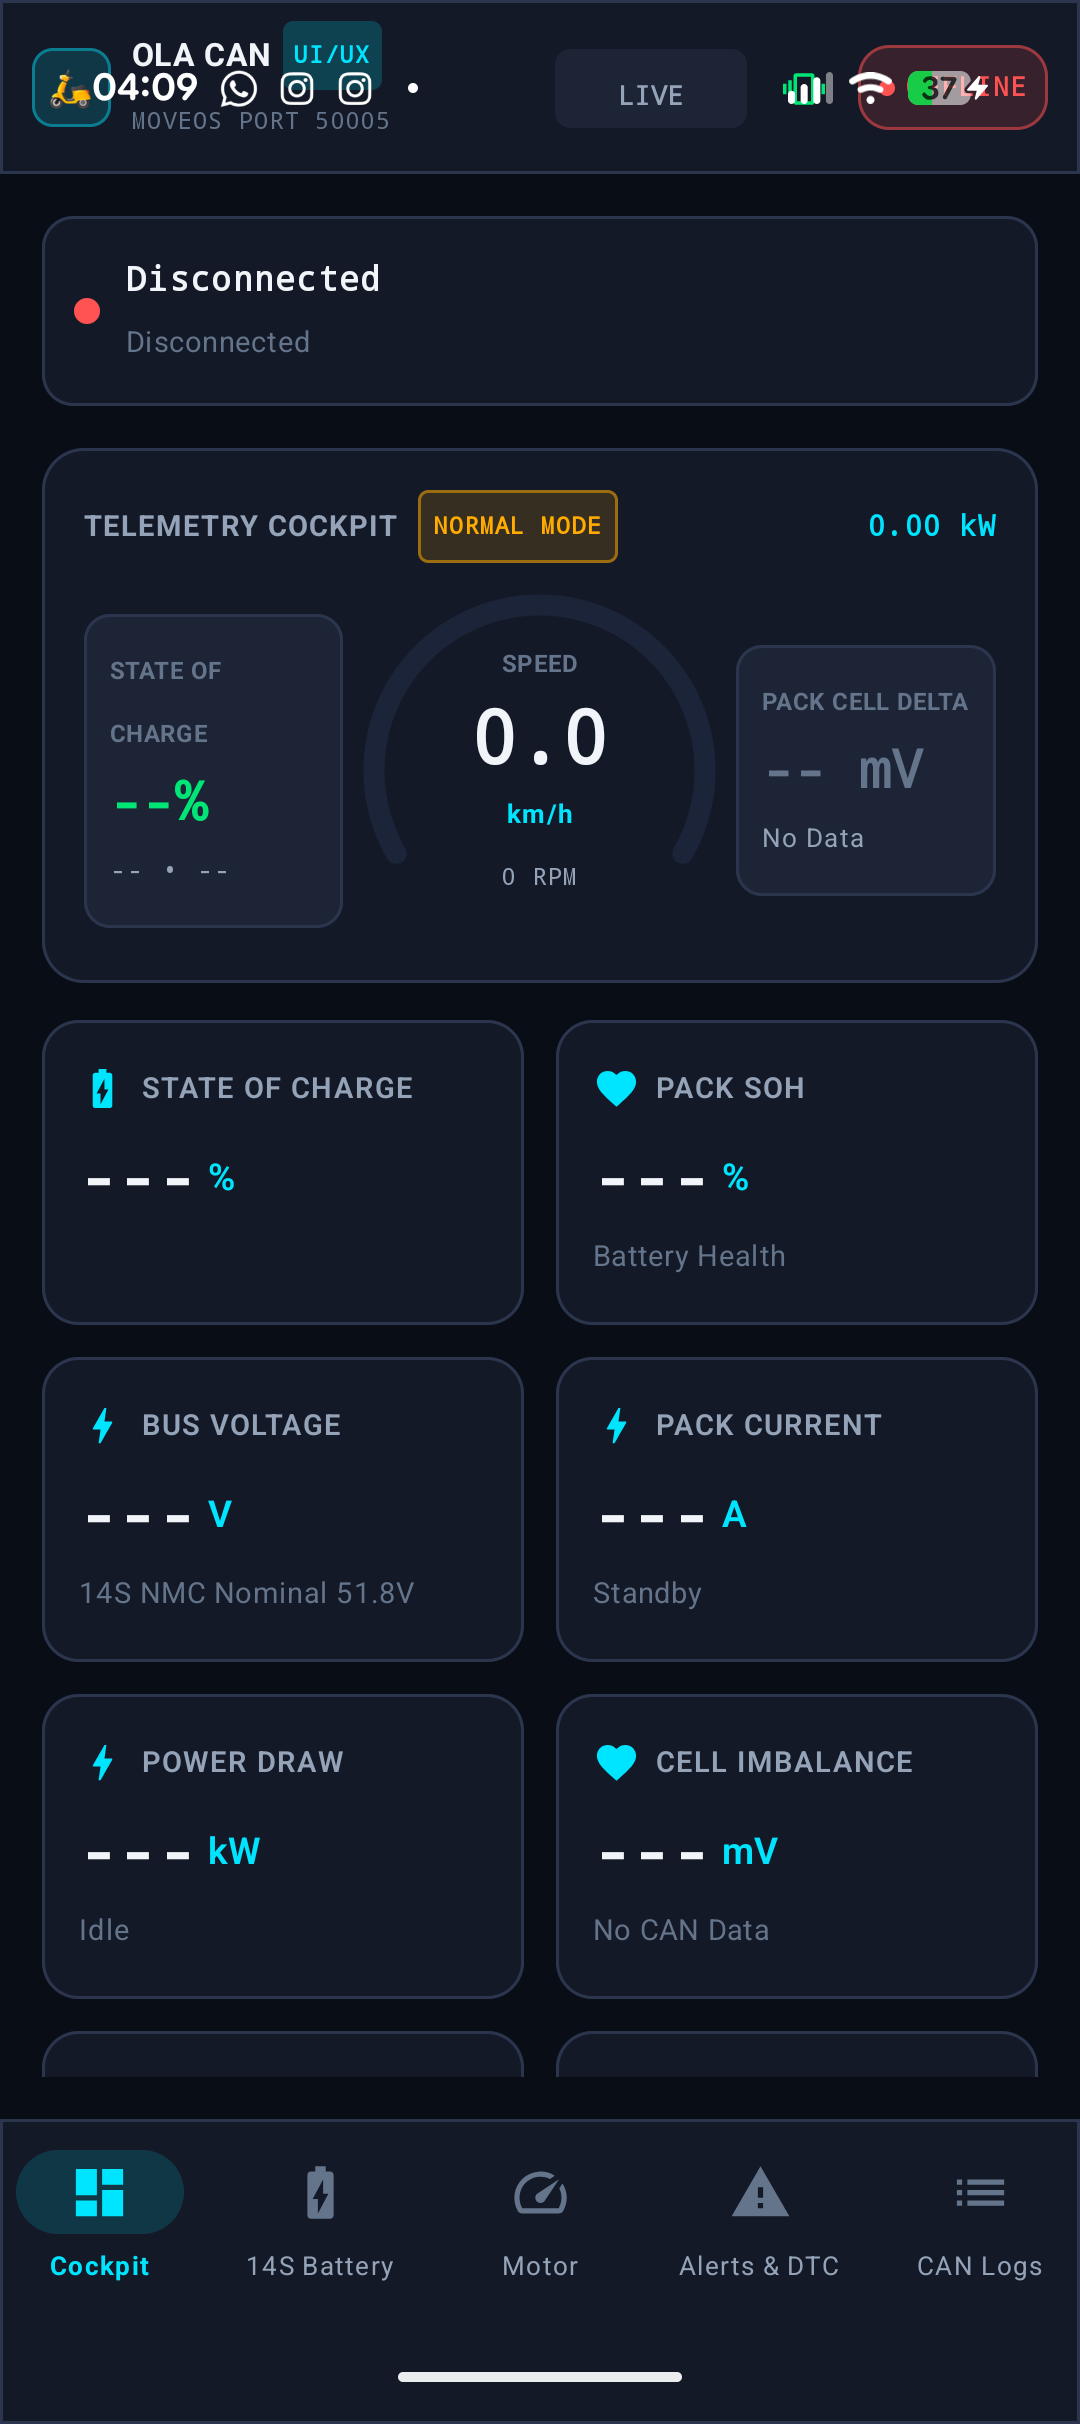
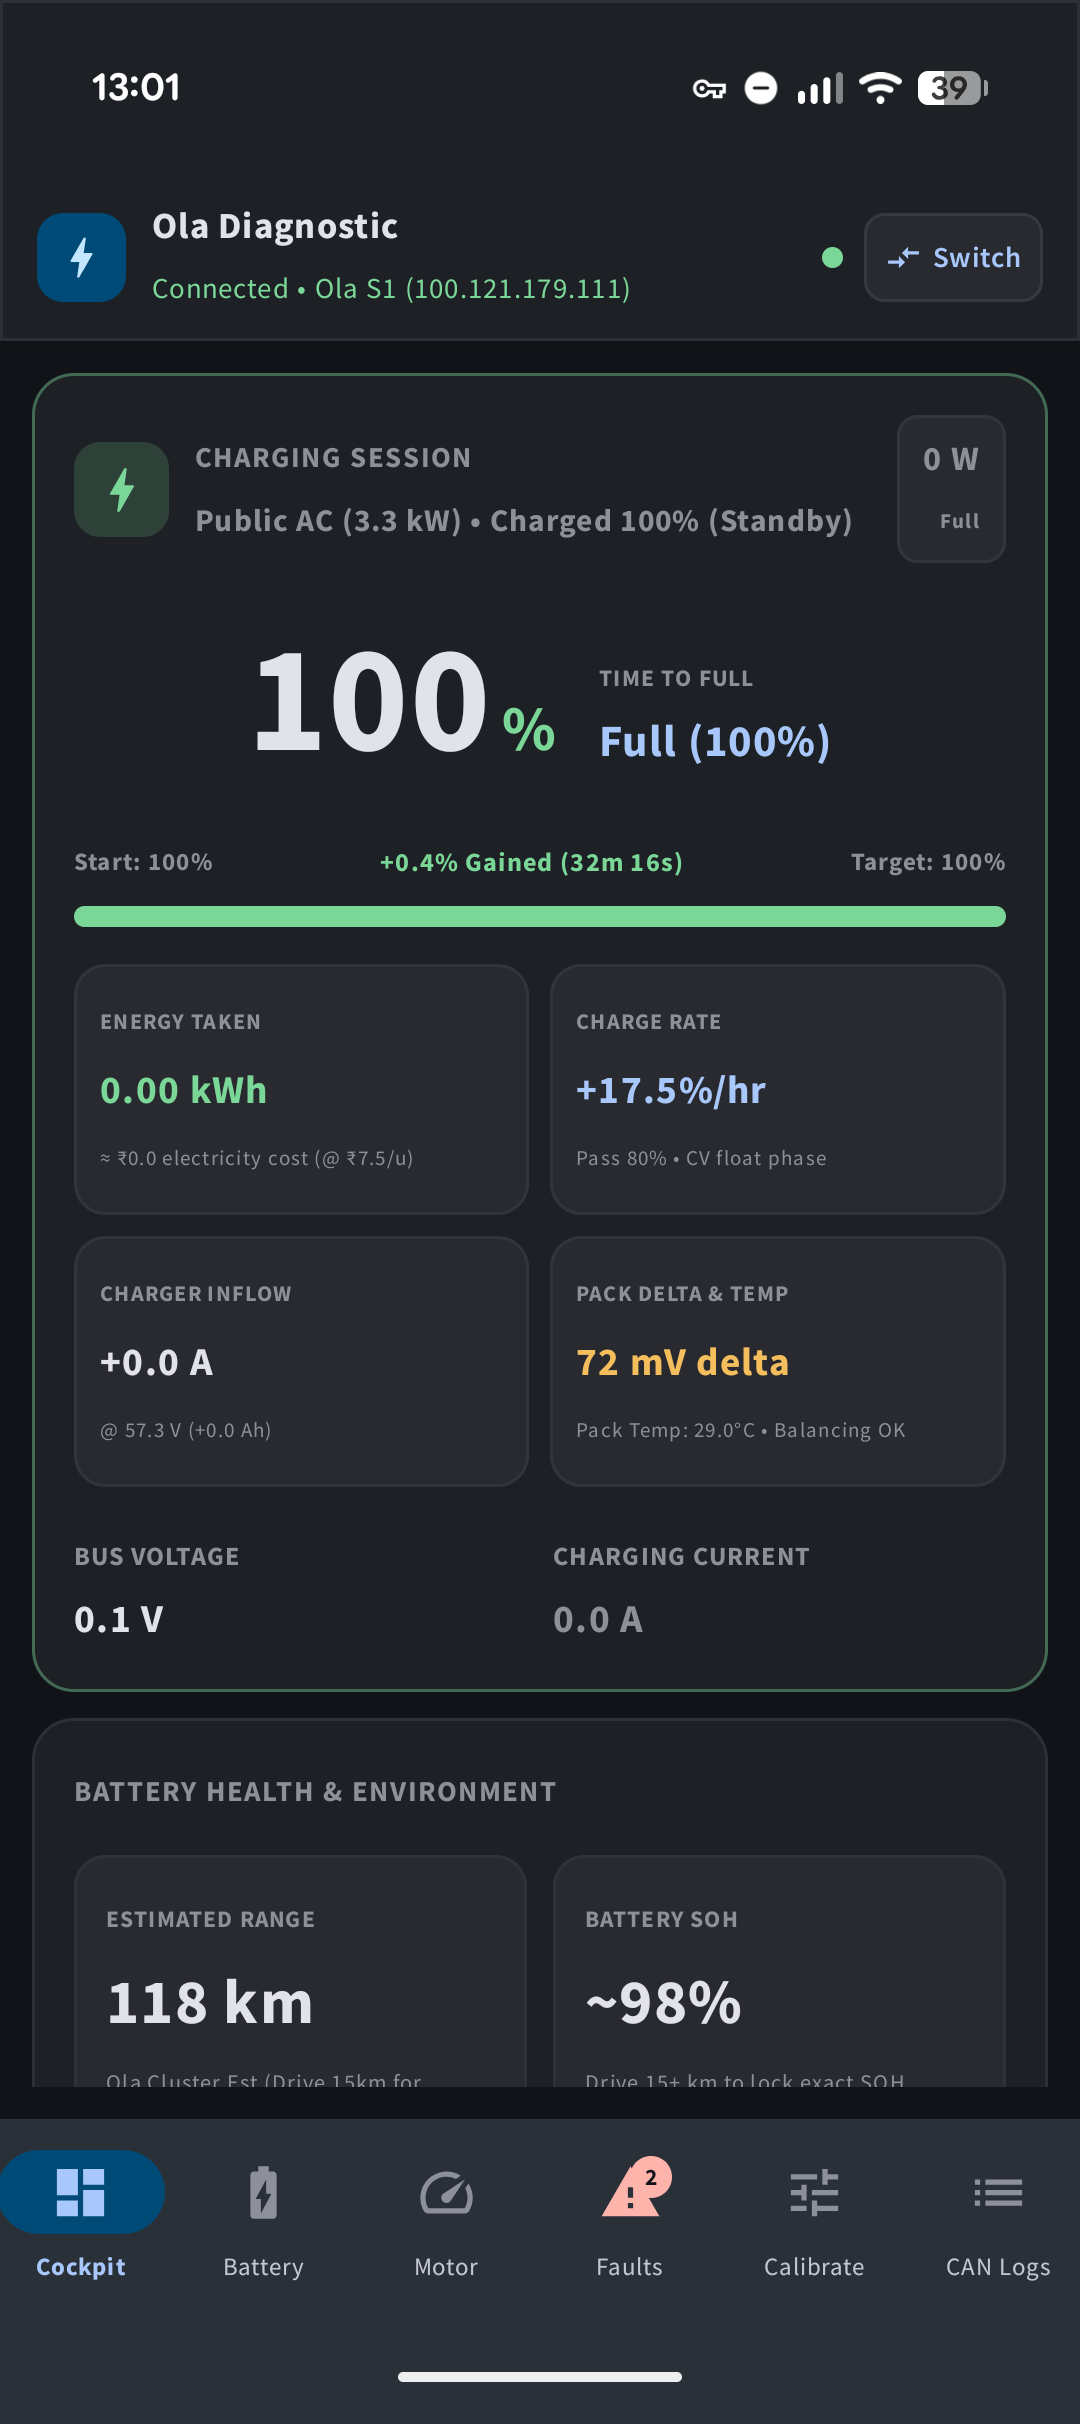
Update README with live connected vehicle screenshots, remove adb command, remove production ready badge, and move caution to bottom

diff --git a/README.md b/README.md
@@ -13,7 +13,6 @@
   <img src="https://img.shields.io/badge/Version-v2.0.2-brightgreen?style=flat" alt="Version" />
   <img src="https://img.shields.io/badge/Platform-Android_8.0+-3DDC84?style=flat&logo=android&logoColor=white" alt="Android" />
   <img src="https://img.shields.io/badge/Architecture-Kotlin_%7C_Compose-7F52FF?style=flat&logo=kotlin&logoColor=white" alt="Kotlin" />
-  <img src="https://img.shields.io/badge/Status-Production_Ready-success?style=flat" alt="Status" />
 </p>
 
 ---
@@ -22,40 +21,29 @@
 
 👉 **[Download Ola Diagnostic v2.0.2 APK (Signed Release)](OlaDiagnostic-v2.0.2.apk)**
 
-*Signed for Android 8.0+ (ARM64 / x86_64). Ready for direct phone installation or sideloading via ADB.*
-
-```bash
-adb install -r OlaDiagnostic-v2.0.2.apk
-```
-
----
-
-> [!CAUTION]
-> **Warranty & Safety Disclaimer:**
-> This project is an independent open-source tool and is **NOT affiliated with, endorsed by, or sponsored by Ola Electric Mobility Pvt Ltd**.
-> Interacting with MoveOS diagnostic interfaces, unlatching safety registers, or sending custom frames on vehicle CAN buses carries inherent risks. Improper use **may void your scooter's manufacturer warranty**, affect MoveOS software support, or alter vehicle behavior. The software is provided "as is" strictly for diagnostic, research, and educational purposes.
+*Signed release for Android 8.0+ (ARM64 / x86_64). Simply download the `.apk` file directly on your Android phone and tap to install.*
 
 ---
 
 ## 📸 Application Screenshots
 
-| ⚡ Live Telemetry Cockpit | 🔋 14S Battery & SOH Engine |
-| :---: | :---: |
-| <img src="screenshots/01-cockpit-telemetry.png" width="300" alt="Telemetry Cockpit" /> | <img src="screenshots/02-battery-health-probes.png" width="300" alt="14S Battery Health & Probes" /> |
+| ⚡ Live Telemetry Cockpit | 🔋 14S Battery Health & SOH | 📊 14-Series Cell Balancer |
+| :---: | :---: | :---: |
+| <img src="screenshots/01-cockpit-telemetry.png" width="260" alt="Telemetry Cockpit" /> | <img src="screenshots/02-battery-health.png" width="260" alt="14S Battery Diagnostics" /> | <img src="screenshots/03-cell-balancer.png" width="260" alt="14-Series Cell Voltages" /> |
 
-| 🏍 Motor & Inverter Thermals | 🛡 Diagnostic Self-Test Suite |
+| 🔧 Powertrain & Hardware Calibration | ⚠ Active DTC Fault Codes & Safety Alerts |
 | :---: | :---: |
-| <img src="screenshots/03-motor-powertrain-thermals.png" width="300" alt="Motor Powertrain & Thermals" /> | <img src="screenshots/04-vehicle-self-test.png" width="300" alt="Vehicle Diagnostic Self-Test" /> |
+| <img src="screenshots/04-vehicle-calibration.png" width="260" alt="Hardware Calibration" /> | <img src="screenshots/05-faults-diagnostics.png" width="260" alt="DTC Fault Codes" /> |
 
 ---
 
 ## ⚡ Core Capabilities & Features
 
 ### 1. ⚡ Live Telemetry Cockpit
-- **Real-Time Speed & Stator RPM:** Precision vehicle speed (km/h) and motor rotor angular velocity.
-- **Pack Voltage & Current:** Live high-voltage bus readings (V) and continuous draw (A) across acceleration, cruising, and regen.
+- **Live Speed & Rotor RPM:** Precision vehicle velocity (km/h) and motor stator RPM.
+- **Pack Voltage & Current:** High-voltage bus level (V) and continuous draw (A) across acceleration, cruising, and regen.
 - **State of Charge (SOC) & Power (kW):** Instant battery percentage, active kilowatt draw, and lifetime odometer (km).
-- **Cell Delta Spread:** Live millivolt difference between the highest and lowest NMC cells in real time.
+- **Cell Delta Spread:** Live millivolt difference between highest and lowest NMC cells in real time.
 
 ### 2. 🔋 14S NMC Battery Balancer & Health Engine
 - **14 Individual Cell Voltages:** Real-time channel 1 through 14 voltages mapped from CAN IDs `0x1A5`, `0x1A6`, `0x1A9`, and `0x1AA`.
@@ -100,7 +88,7 @@ adb install -r OlaDiagnostic-v2.0.2.apk
 
 ```
 ├── OlaDiagnostic-v2.0.2.apk   # Compiled, signed release binary ready for installation
-├── screenshots/               # UI captures showcasing app features
+├── screenshots/               # High-resolution live vehicle UI captures
 ├── ola_diagnostic_icon.png    # Official app branding icon
 ├── OlaCanApp/                 # Complete Kotlin & Jetpack Compose Android Studio project
 │   ├── app/
@@ -125,6 +113,13 @@ To build from source using the Gradle wrapper (requires Android SDK 35 & JDK 17)
 cd OlaCanApp
 ./gradlew :app:assembleRelease
 ```
+
+---
+
+> [!CAUTION]
+> **Warranty & Safety Disclaimer:**
+> This project is an independent open-source tool and is **NOT affiliated with, endorsed by, or sponsored by Ola Electric Mobility Pvt Ltd**.
+> Interacting with MoveOS diagnostic interfaces, unlatching safety registers, or sending custom frames on vehicle CAN buses carries inherent risks. Improper use **may void your scooter's manufacturer warranty**, affect MoveOS software support, or alter vehicle behavior. The software is provided "as is" strictly for diagnostic, research, and educational purposes.
 
 ---
 
